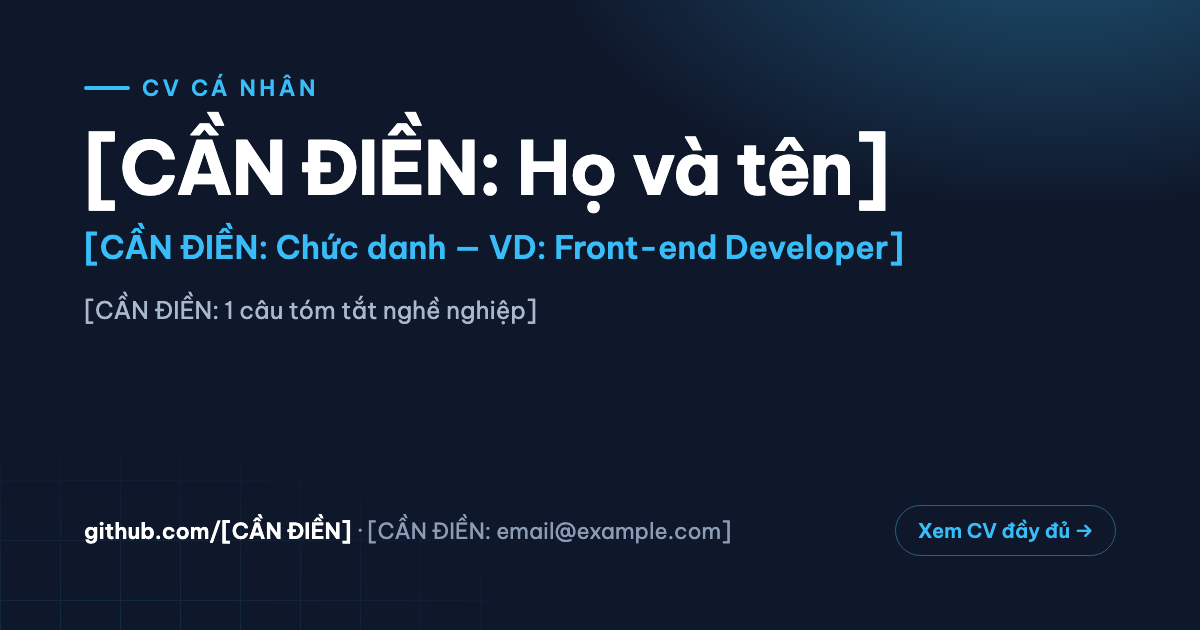
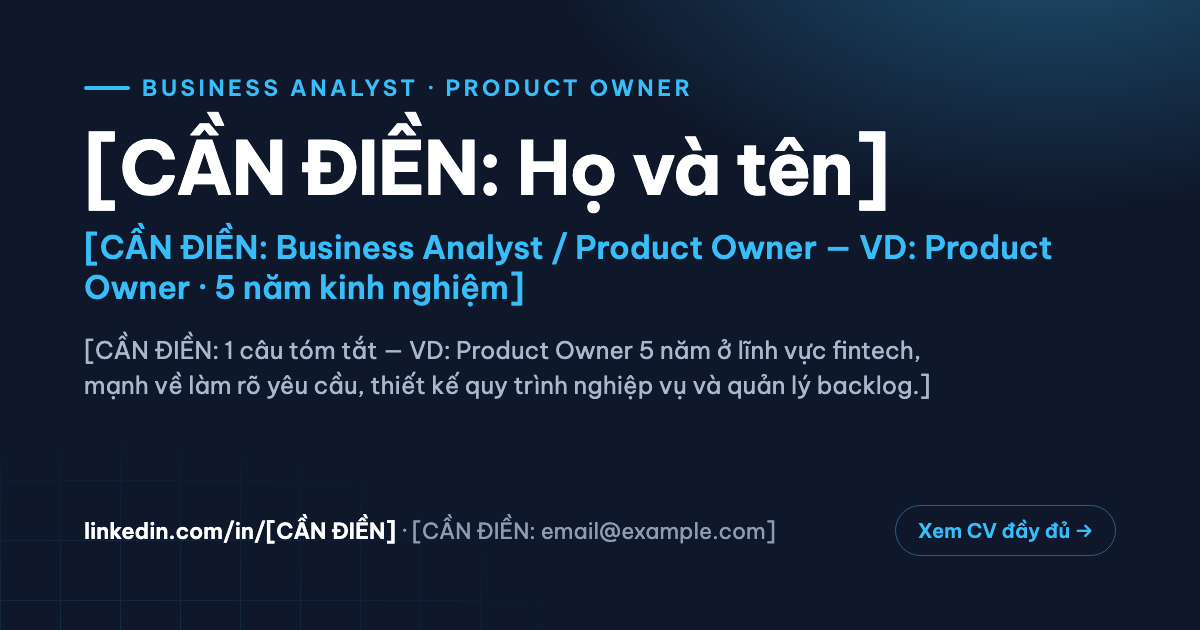
Nội dung định hướng BA/PO: kỹ năng nghiệp vụ-công cụ-kỹ năng mềm, lộ trình BA→Senior BA→PO, chứng chỉ PSPO/CBAP; bản in gọn 1.9 trang A4; test đọc kỳ vọng từ data.json

diff --git a/styles.css b/styles.css
@@ -397,23 +397,45 @@ a:hover { text-decoration: underline; }
   }
 
   html { scroll-behavior: auto; }
-  body { font-size: 9.6pt; line-height: 1.35; }
+  body { font-size: 9pt; line-height: 1.28; }
 
   /* Bản in gọn để gói trong 1–2 trang A4 */
-  h1, .hero-name { font-size: 19pt; }
-  h2, .section-title { font-size: 12.5pt; }
-  h3, .entry-title { font-size: 10.5pt; }
-  .hero-title { font-size: 10pt; margin-bottom: .2rem; }
-  .hero-summary { font-size: 9.6pt; }
-  .entry-body li { margin-bottom: .1rem; }
-  .timeline > li { padding-bottom: .7rem; }
-  .timeline { padding-left: 1.2rem; }
-  .section-head { margin-bottom: .25rem; }
-  .sub-title { margin-bottom: .4rem; }
-  .card, .skill-card, .fact, .contact-form { padding: .7rem .85rem; }
-  .chip { padding: .1rem .5rem; font-size: 8.6pt; }
-  .facts { gap: 4mm; margin-top: .5rem; }
-  .fact-value { font-size: 13pt; }
+  h1, .hero-name { font-size: 17pt; }
+  h2, .section-title { font-size: 12pt; }
+  h3, .entry-title { font-size: 10pt; }
+  .hero-title { font-size: 9.5pt; margin-bottom: .15rem; }
+  .hero-summary { font-size: 9pt; }
+  .section-sub, .form-hint { display: none !important; }  /* dòng ghi chú/hướng dẫn — không cần trên giấy */
+  .entry-body li { margin-bottom: .05rem; padding-left: .9rem; }
+  .entry-body li::before { width: 4px; height: 4px; }
+  .timeline > li { padding-bottom: .5rem; }
+  .timeline { padding-left: 1rem; }
+  .timeline > li::before { width: 9px; height: 9px; border-width: 2px; left: -1.35rem; }
+  .section { padding: .3rem 0; }
+  .section-head { margin-bottom: .15rem; }
+  .sub-title { margin-bottom: .25rem; }
+  .card, .skill-card, .fact, .contact-form { padding: .55rem .7rem; }
+  /* Kỹ năng trên giấy: tiêu đề nhóm + chip chảy cùng dòng → tiết kiệm gần 1/3 trang */
+  .skill-card { padding: 0 0 .35rem; border: 0; box-shadow: none; background: none; }
+  .skill-card h3 { display: inline; margin: 0 .4rem 0 0; }
+  .skill-card h3::before { display: none; }
+  .skill-card h3::after { content: ":"; }
+  .skill-card .chips { display: inline; }
+  .skill-card .chip { border: 0; padding: 0; background: none; color: #000; }
+  .skill-card .chip::after { content: " ·"; color: #666; }
+  .skill-card .chip:last-child::after { content: ""; }
+  .card-links .link-placeholder { display: none; }  /* chỗ chưa điền link thì không in ra giấy */
+  .chip { padding: .05rem .45rem; font-size: 8pt; }
+  .facts { gap: 3mm; margin-top: .35rem; }
+  .fact-value { font-size: 12pt; }
+  .about-body p { margin-bottom: .35rem; }
+  .skill-card h3 { margin-bottom: .3rem; }
+  .chips { gap: .25rem; }
+  .contact-info li { padding: .35rem 0; }
+  .edu-columns { gap: 5mm; }
+  .avatar { width: 20mm; }
+  .hero-inner { gap: 8mm; }
+  .hero { padding: .2rem 0; }
 
   .no-print, .site-header, .site-footer #to-top, .social-list, .scroll-progress,
   .form-hint, .form-status, #print-btn, #theme-toggle, .skip-link { display: none !important; }
@@ -431,8 +453,9 @@ a:hover { text-decoration: underline; }
 
   /* Không cắt giữa card / mục timeline */
   .card, .timeline > li, .fact, .skill-card, .cert-list li, .contact-form { break-inside: avoid; page-break-inside: avoid; }
-  .cards-grid { grid-template-columns: repeat(2, 1fr); gap: 4mm; }
-  .skills-grid { grid-template-columns: repeat(3, 1fr); gap: 4mm; }
+  .cards-grid { grid-template-columns: repeat(3, 1fr); gap: 3mm; }
+  /* 1 cột cho kỹ năng: chip chảy ngang 1 hàng rộng → thấp hơn nhiều so với 3 cột hẹp */
+  .skills-grid { grid-template-columns: 1fr; gap: 3mm; }
   .edu-columns, .contact-grid { grid-template-columns: 1fr 1fr; gap: 6mm; }
   a { color: #000; text-decoration: none; }
   [data-reveal] { opacity: 1 !important; transform: none !important; }

diff --git a/tools/og-template.html b/tools/og-template.html
@@ -34,13 +34,13 @@
   <div class="grid"></div>
   <div class="wrap">
     <div>
-      <span class="tag">CV cá nhân</span>
+      <span class="tag">Business Analyst · Product Owner</span>
       <h1 style="margin-top:26px">[CẦN ĐIỀN: Họ và tên]</h1>
-      <p class="title">[CẦN ĐIỀN: Chức danh — VD: Front-end Developer]</p>
-      <p class="summary">[CẦN ĐIỀN: 1 câu tóm tắt nghề nghiệp]</p>
+      <p class="title">[CẦN ĐIỀN: Business Analyst / Product Owner — VD: Product Owner · 5 năm kinh nghiệm]</p>
+      <p class="summary">[CẦN ĐIỀN: 1 câu tóm tắt — VD: Product Owner 5 năm ở lĩnh vực fintech, mạnh về làm rõ yêu cầu, thiết kế quy trình nghiệp vụ và quản lý backlog.]</p>
     </div>
     <div class="foot">
-      <span><b>github.com/[CẦN ĐIỀN]</b> · [CẦN ĐIỀN: email@example.com]</span>
+      <span><b>linkedin.com/in/[CẦN ĐIỀN]</b> · [CẦN ĐIỀN: email@example.com]</span>
       <span class="badge">Xem CV đầy đủ →</span>
     </div>
   </div>

diff --git a/README.md b/README.md
@@ -21,7 +21,15 @@ cv-website/
 
 ## 1. Sửa nội dung
 
-Mở `data.json`, tìm mọi chỗ có `[CẦN ĐIỀN]` và thay bằng dữ liệu thật:
+Mở `data.json`, tìm mọi chỗ có `[CẦN ĐIỀN]` và thay bằng dữ liệu thật. Bản mặc định đã được
+**định hướng cho vị trí BA/PO (Business Analyst / Product Owner)**: kỹ năng chia theo
+nghiệp vụ & phương pháp / công cụ / kỹ năng mềm, kinh nghiệm theo lộ trình BA → Senior BA → PO,
+chứng chỉ gợi ý PSPO I, CBAP/ECBA. Quy ước chỗ cần điền:
+
+- `[CẦN ĐIỀN: ...]` — thông tin/danh tính thật (tên, email, công ty, trường, link…).
+- `[X]`, `[Y]`, `[N]`, `[X%]` trong các bullet — **số liệu thật của bạn**. Đừng để nguyên con số
+  trong ngoặc vuông khi gửi cho nhà tuyển dụng; mỗi bullet nên là một thành tích có số đo
+  (trước → sau, %, thời gian, số người, số tính năng…).
 
 | Mục trong `data.json` | Nội dung hiển thị |
 |---|---|
